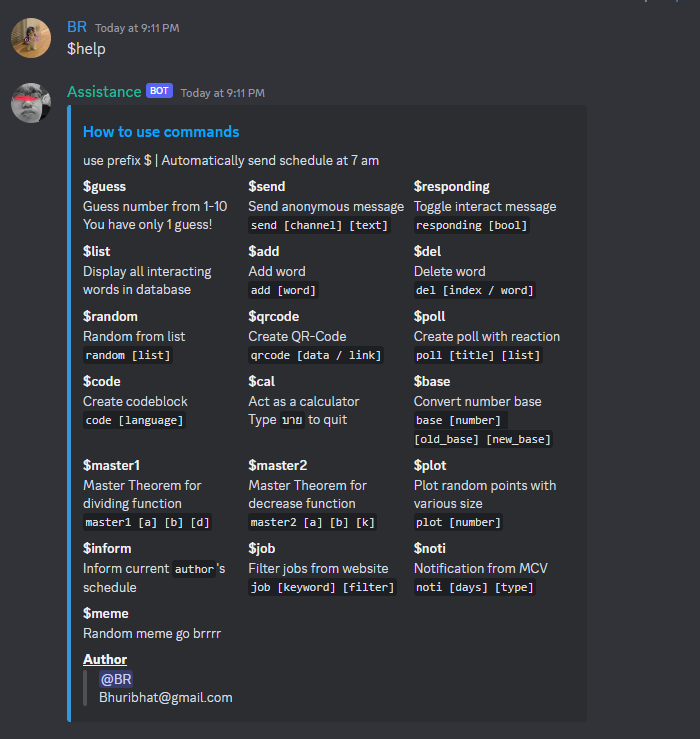
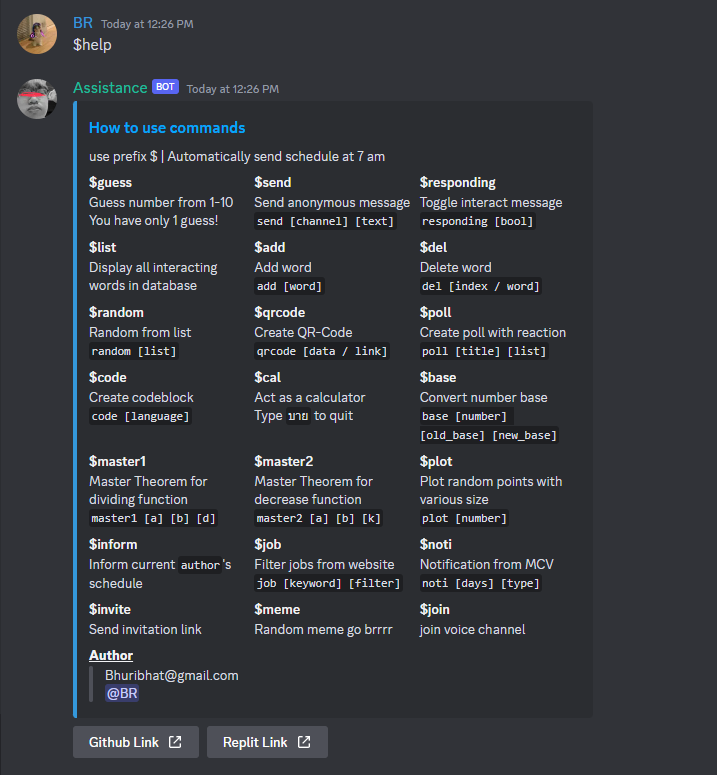
add view

Changed region(s): [[0.0, 0.0, 0.81, 0.9959]]

diff --git a/main.py b/main.py
@@ -7,6 +7,7 @@ import discord
 import numpy as np
 import matplotlib.pyplot as plt
 
+from view import *
 from replit import db
 from datetime import datetime
 from meme import meme_stealer
@@ -124,13 +125,16 @@ async def inform():
             title="Schedule",
             url="https://docs.google.com/document/d/1C1sF4aS6kFjqWBtU91vSYUvTSxdh9xxXhA9LeUUTbXg/edit#heading=h.8sb6c0hcl62a",
             description=schedule[day_of_week],
-            color=discord.Color.blue())
+            color=discord.Color.blue()
+        )
         embedVar.add_field(
             name="Days of week",
             value="For " + datetime.today().strftime('%A') +
             " | [MCV](https://www.mycourseville.com/?q=courseville)" +
             " [Grader](https://nattee.net/grader)",
-            inline=False)
+            inline=False
+        )
+
         # embedVar.set_author(name="", icon_url="")
         study_room_channel = client.get_channel(808174559529926666)
         Aqioz_id = os.environ['AQIOZ_ID']
@@ -139,7 +143,7 @@ async def inform():
 
 
 # Class Client
-class MyClient(discord.Client):
+class DiscordClient(discord.Client):
 
     # introduce yourself
     async def on_ready(self):
@@ -311,7 +315,9 @@ class MyClient(discord.Client):
                 {'name': '$inform', 'usage': 'Inform current `author`\'s schedule'},
                 {'name': '$job', 'usage': 'Filter jobs from website\n`job [keyword] [filter]`'},
                 {'name': '$noti', 'usage': 'Notification from MCV\n`noti [days] [type]`'},
+                {'name': '$invite', 'usage': 'Send invitation link'},
                 {'name': '$meme', 'usage': 'Random meme go brrrr'},
+                {'name': '$join', 'usage': 'join voice channel'},
             ]
 
             # embed.set_thumbnail(url="https://i.pinimg.com/originals/13/8d/52/138d52a8f429510e2c16bd67990dae3c.jpg")
@@ -324,8 +330,8 @@ class MyClient(discord.Client):
 
             # embed.set_author(name="Aqioz")
             Aqioz_id = os.environ['AQIOZ_ID']
-            embed.add_field(name="__**Author**__", value=f"> {Aqioz_id}\n> Bhuribhat@gmail.com", inline=False)
-            await message.channel.send(embed=embed)
+            embed.add_field(name="__**Author**__", value=f"> Bhuribhat@gmail.com\n> {Aqioz_id}", inline=False)
+            await message.channel.send(embed=embed, view=GithubButton())
 
         # calculator command
         if msg.startswith("$cal"):
@@ -348,15 +354,23 @@ class MyClient(discord.Client):
 
         # coding template
         if msg.startswith("$code"):
-            language = msg.split("$code ", 1)[1]
-            embedVar = discord.Embed(title="Coding Template",
-                                     description=f"` ```{language}\n`\t `\n``` `",
-                                     color=0x00ff00)
-            embedVar.add_field(name="Description",
-                               value=f"Template for {language} language",
-                               inline=False)
+            language = msg.split("$code", 1)[1].strip()
             study_room_channel = client.get_channel(808174559529926666)
-            await study_room_channel.send(embed=embedVar)
+
+            if language != '':
+                embedVar = discord.Embed(
+                    title="Coding Template",
+                    description=f"` ```{language}\n`\t `\n``` `",
+                    color=0x00ff00
+                )
+                embedVar.add_field(
+                    name="Description",
+                    value=f"Template for {language} language",
+                    inline=False
+                )
+                await study_room_channel.send(embed=embedVar)
+            else:
+                await study_room_channel.send(view=CodeMenu())
 
         # random list of thing split by comma (",")
         if msg.startswith("$random"):
@@ -678,8 +692,22 @@ class MyClient(discord.Client):
             meme_stealer()
             await message.channel.send(file=discord.File('.\\assets\\meme.png'))
 
+        # send invitation
+        if msg.startswith("$invite"):
+            inv = await message.channel.create_invite()
+            await message.channel.send("Click the button below to invite someone!", view=InviteButton(str(inv)))
 
-# driver
-client = MyClient()
-keep_alive()
-client.run(TOKEN)
+        # join voice channel
+        if msg.startswith("$join"):
+            channel = message.author.voice.channel
+            await channel.connect()
+
+
+if __name__ == '__main__':
+    intents = discord.Intents.default()
+    intents.message_content = True
+
+    # driver code
+    client = DiscordClient()
+    keep_alive()
+    client.run(TOKEN)

diff --git a/view.py b/view.py
@@ -1,0 +1,79 @@
+import discord
+
+
+# defining the class for creating a button
+class InviteButton(discord.ui.View):
+
+    # creating the button function
+    def __init__(self, inv: str):
+        super().__init__()
+
+        # collecting the url of the current server
+        self.inv = inv
+        self.add_item(discord.ui.Button(label="Invite link", url=self.inv))
+
+    # features of the button
+    @discord.ui.button(label="Invite", style=discord.ButtonStyle.blurple)
+    async def invite(self, interaction: discord.Interaction, button: discord.ui.Button):
+        await interaction.response.send_message(self.inv, ephemeral=True)
+
+
+# defining the class for creating a button
+class GithubButton(discord.ui.View):
+
+    # creating the button function
+    def __init__(self):
+        super().__init__()
+
+        # collecting the url of the github
+        self.github = "https://github.com/Bhuribhat/Discord-Bot"
+        self.replit = "https://replit.com/@Bhuribhat/DiscordBotDemo"
+        self.add_item(discord.ui.Button(label="Github Link", url=self.github))
+        self.add_item(discord.ui.Button(label="Replit Link", url=self.replit))
+
+
+class CodeMenu(discord.ui.View):
+
+    # the decorator that lets you specify the properties of the select menu
+    @discord.ui.select(
+
+        # the placeholder text that will be displayed if nothing is selected
+        placeholder="Choose a Programming Language!",
+
+        min_values=1,  # the minimum number of values that must be selected by the users
+        max_values=1,  # the maximum number of values that can be selected by the users
+
+        # the list of options from which users can choose, a required field
+        options=[
+            discord.SelectOption(
+                label="Python",
+                description="Pick this if you code Python!"
+            ),
+            discord.SelectOption(
+                label="C",
+                description="Pick this if you code C!"
+            ),
+            discord.SelectOption(
+                label="C++",
+                description="Pick this if you code C++!"
+            ),
+            discord.SelectOption(
+                label="markdown",
+                description="Pick this if you code markdown!"
+            )
+        ]
+    )
+
+    # the function called when the user is done selecting options
+    async def select_callback(self, interaction, select):
+        embedVar = discord.Embed(
+            title="Coding Template",
+            description=f"` ```{select.values[0]}\n`\t `\n``` `",
+            color=0x00ff00
+        )
+        embedVar.add_field(
+            name="Description",
+            value=f"Template for {select.values[0]} language",
+            inline=False
+        )
+        await interaction.response.send_message(embed=embedVar)
